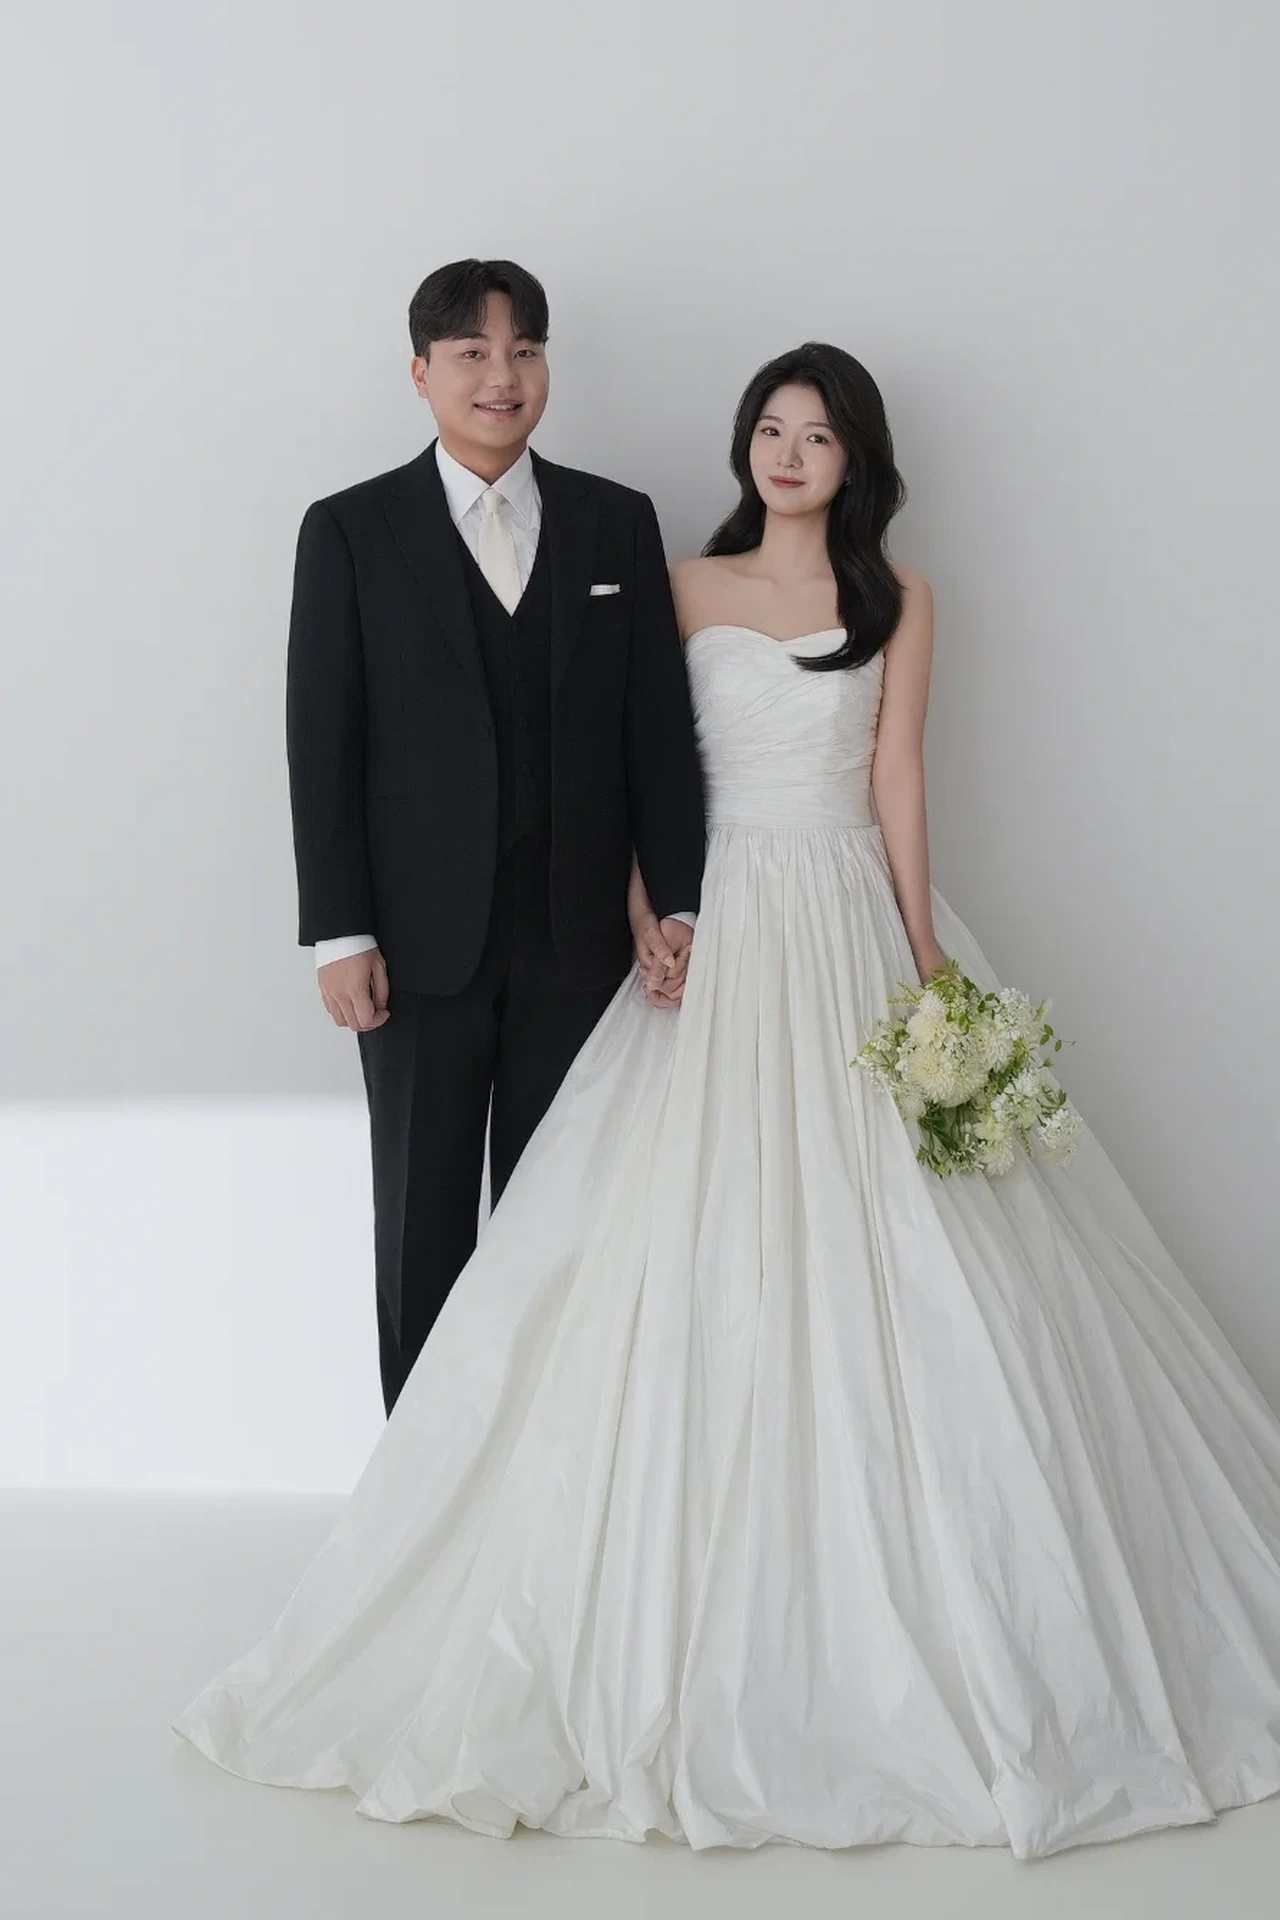
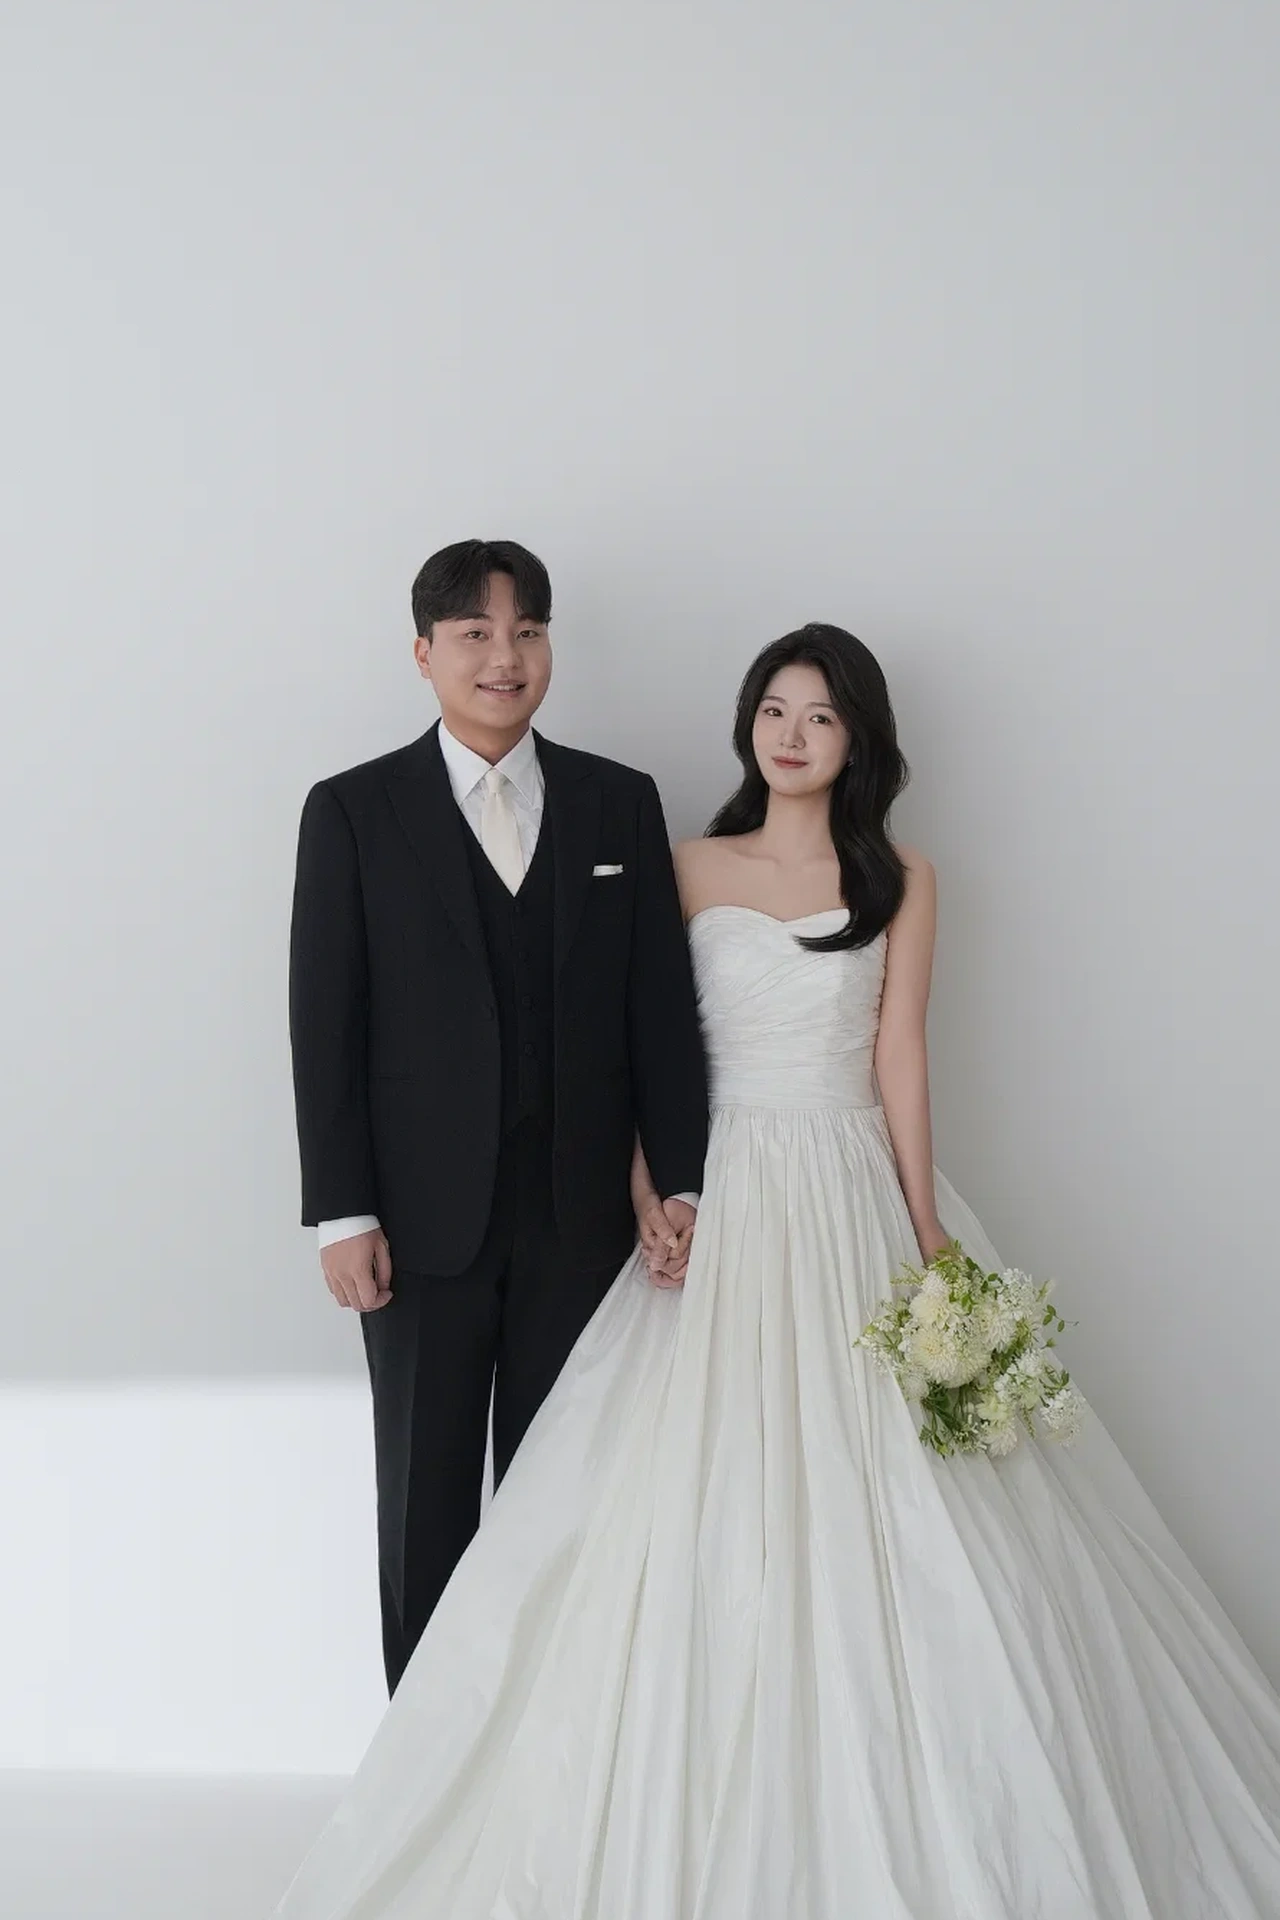
Refine gallery photo quality and apply revised first crop

diff --git a/index.html b/index.html
@@ -9,4 +9,4 @@
 <meta property="og:image:alt" content="정상형과 최예선의 웨딩 사진">
 <meta name="twitter:card" content="summary_large_image">
 <meta name="robots" content="noindex, nofollow">
-<link rel="icon" href="assets/favicon.svg" type="image/svg+xml"><link rel="preconnect" href="https://fonts.googleapis.com"><link rel="preconnect" href="https://fonts.gstatic.com" crossorigin><link href="https://fonts.googleapis.com/css2?family=Allura&family=Crimson+Pro:ital,wght@0,300;0,400;0,500;1,300;1,400&family=Gowun+Batang:wght@400;700&family=Gowun+Dodum&family=Noto+Sans+KR:wght@400;500&display=swap" rel="stylesheet"><link rel="stylesheet" href="style.css?v=29"><script src="accounts-config.js?v=28" defer></script><script src="rsvp-config.js?v=7" defer></script><script src="kakao-share.js?v=24" defer></script><script src="app.js?v=30" defer></script></head><body><div id="app"></div><dialog id="photo-dialog" aria-label="웨딩 사진"><button class="photo-close" aria-label="사진 닫기">×</button><img alt="정상형과 최예선의 웨딩 사진"><div class="photo-controls"><button class="photo-prev" aria-label="이전 사진">←</button><span class="photo-counter" aria-live="polite"></span><button class="photo-next" aria-label="다음 사진">→</button></div></dialog><div id="notice" role="status"></div><noscript>청첩장을 보려면 JavaScript를 켜 주세요.</noscript></body></html>
+<link rel="icon" href="assets/favicon.svg" type="image/svg+xml"><link rel="preconnect" href="https://fonts.googleapis.com"><link rel="preconnect" href="https://fonts.gstatic.com" crossorigin><link href="https://fonts.googleapis.com/css2?family=Allura&family=Crimson+Pro:ital,wght@0,300;0,400;0,500;1,300;1,400&family=Gowun+Batang:wght@400;700&family=Gowun+Dodum&family=Noto+Sans+KR:wght@400;500&display=swap" rel="stylesheet"><link rel="stylesheet" href="style.css?v=29"><script src="accounts-config.js?v=28" defer></script><script src="rsvp-config.js?v=7" defer></script><script src="kakao-share.js?v=24" defer></script><script src="app.js?v=31" defer></script></head><body><div id="app"></div><dialog id="photo-dialog" aria-label="웨딩 사진"><button class="photo-close" aria-label="사진 닫기">×</button><img alt="정상형과 최예선의 웨딩 사진"><div class="photo-controls"><button class="photo-prev" aria-label="이전 사진">←</button><span class="photo-counter" aria-live="polite"></span><button class="photo-next" aria-label="다음 사진">→</button></div></dialog><div id="notice" role="status"></div><noscript>청첩장을 보려면 JavaScript를 켜 주세요.</noscript></body></html>

diff --git a/app.js b/app.js
@@ -1,7 +1,7 @@
 /* New collection based on the four selected references. No audio, video or profile modules. */
 const design={id:'10',name:'일월 삼일',skin:'white'};
 const app=document.querySelector('#app');
-const photoSrc=n=>`assets/photo-${String(n).padStart(2,'0')}${[1,3,15].includes(n)?'-cropped':''}.webp`;
+const photoSrc=n=>`assets/photo-${String(n).padStart(2,'0')}${[1,3,15].includes(n)?'-enhanced':''}.webp`;
 const picture=(n,cls='',eager=false)=>`<img class="${cls}" src="${photoSrc(n)}" alt="정상형과 최예선의 웨딩 사진" ${eager?'fetchpriority="high"':'loading="lazy"'} decoding="async">`;
 // Rows: white studio / green & white / beige portraits / dark studio / black & pink.
 const galleryOrder=[1,3,15, 2,4,5, 10,6,13, 7,8,9, 11,14,12];

diff --git a/tools/enhance-gallery.py b/tools/enhance-gallery.py
@@ -1,0 +1,22 @@
+"""Rebuild approved crops without generative face restoration; requires Pillow."""
+from pathlib import Path
+from PIL import Image, ImageOps, ImageFilter
+
+root = Path(__file__).resolve().parents[1]
+settings = [
+    (1, 'assets/photo-01.webp', (176, 238, 890, 1335), 85),
+    (3, 'assets/photo-03.webp', (88, 386, 982, 1473), 85),
+    (15, 'KakaoTalk_Photo_2026-11-07-23-27-24.jpeg', (423, 794, 596, 894), 45),
+]
+for number, filename, (x, y, width, height), amount in settings:
+    with Image.open(root / filename) as source:
+        im = ImageOps.exif_transpose(source).convert('RGB')
+        assert im.width * 3 == im.height * 2
+        sx, sy = im.width / 1280, im.height / 1920
+        box = (x*sx, y*sy, (x+width)*sx, (y+height)*sy)
+        assert box[2] <= im.width and box[3] <= im.height
+        result = im.resize((1280, 1920), Image.Resampling.LANCZOS, box=box)
+        result = result.filter(ImageFilter.UnsharpMask(radius=0.8, percent=amount, threshold=2))
+        output = root / f'assets/photo-{number:02d}-enhanced.webp'
+        result.save(output, 'WEBP', quality=98, method=6)
+        print(f'{output.name}: source {im.size}, crop {width*sx:g}x{height*sy:g}, output {result.size}')

diff --git a/tools/crop-gallery.py b/tools/crop-gallery.py
@@ -3,7 +3,7 @@ from pathlib import Path
 from PIL import Image
 
 root = Path(__file__).resolve().parents[1]
-crops = [(1, (178, 433, 890, 1335)), (3, (88, 386, 982, 1473)), (15, (423, 794, 596, 894))]
+crops = [(1, (176, 238, 890, 1335)), (3, (88, 386, 982, 1473)), (15, (423, 794, 596, 894))]
 for number, (x, y, width, height) in crops:
     source = root / f'assets/photo-{number:02d}.webp'
     target = root / f'assets/photo-{number:02d}-cropped.webp'
